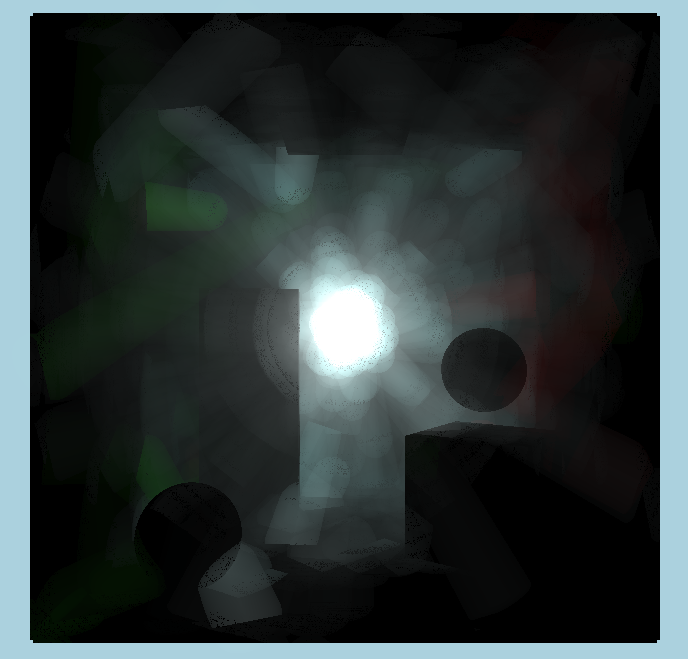
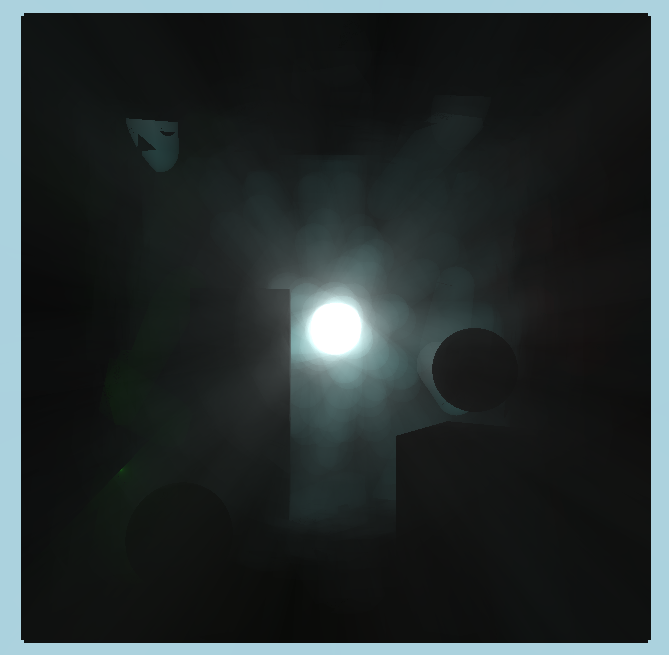
use  images produced after bug fix

diff --git a/photon_beam/hello_vulkan.cpp b/photon_beam/hello_vulkan.cpp
@@ -64,7 +64,7 @@ void HelloVulkan::setDefaults()
   m_beamUnitDistantColor = defaultBeamUnitDistantColor;
   m_beamRadius   = 0.6;
   m_photonRadius = 1.0;
-  m_beamIntensity        = 10.0f;
+  m_beamIntensity        = 15.0f;
   m_usePhotonMapping = true;
   m_usePhotonBeam    = true;
   m_hgAssymFactor    = 0.0;

diff --git a/README.md b/README.md
@@ -31,7 +31,7 @@ All other tutorials start from the end of the _first_ ray tracing tutorial and a
 
 Tutorial | Details
 ---------|--------
-![img](photon_beam/images/default_image.png) | [Photon Beam](photon_beam) <br> Use photon beam method combined with photon mapping method to describe volumetric radiance.
+![img](photon_beam/images/default_image2.png) | [Photon Beam](photon_beam) <br> Use photon beam method combined with photon mapping method to describe volumetric radiance.
 ![small](ray_tracing_anyhit/images/anyhit.png) | [Any Hit Shader](ray_tracing_anyhit)<br>Implements transparent materials by adding a new shader to the Hit group and using the material information to discard hits over time. Adds an anyhit (.ahit) shader to the ray tracing pipeline. Creates simple transparency by randomly letting the ray hit or not.
 ![small](ray_tracing_jitter_cam/images/antialiasing.png) | [Jitter Camera](ray_tracing_jitter_cam)<br>  Anti-aliases the image by accumulating small variations of rays over time. Generates random ray directions. Read/write/accumulates the final image.
 ![img](ray_tracing_instances/images/instances.png) | [Thousands of Objects](ray_tracing_instances) <br> The current example allocates memory for each object, each of which has several buffers. This shows how to get around Vulkan's limits on the total number of memory allocations by using a memory allocator. Extends the limit of 4096 memory allocations. Uses these memory allocators: DMA, VMA.

diff --git a/photon_beam/README.md b/photon_beam/README.md
@@ -1,8 +1,9 @@
 # Photon Beam
 
 <p>
-<img src="images/default_image.png" width="400">
-<img src="images/default_image2.png" width="400">
+<img src="images/default_image.png" width="270">
+<img src="images/default_image2.png" width="270">
+<img src="images/default_image3.png" width="270">
 </p>
 
 This example aims to describe volumetric radiance from participating media.
